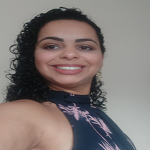
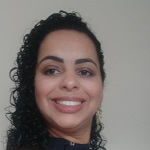
Melhorando a foto

diff --git a/index.html b/index.html
@@ -45,10 +45,10 @@
     </div>
     
     <div>
-        <p>Analista de planejamento migrando para a área de tecnologia.<br>
+        <p>Analista de planejamento migrando para a área de Tecnologia.<br>
          Validações e testes de alterações sistêmicas. <br> Cursando Java Script, HTML e CSS no PretaLab . <br>
-         Certificação Scrum Fundamentals Certified - Scrum study. <br>
-         MBA em Gestão estratégicas de negócios.</p>
+         Certificação Scrum Fundamentals Certified - Scrum Study. <br>
+         MBA em Gestão Estratégicas de Negócios.</p>
         </div>
     </article>
 
@@ -107,9 +107,9 @@
         <div class="container">
             <ul id="contato" class= "lista-footer">
                 <!-- Explicar sobre icones -->
-                <li><i class="fas fa-envelope-square estilo-icon"></i><a href="mailto:denisecruz2000@hotmail.com" target ="_blank" class="links">denisecruz2000@hotmail.com</a></li>
-                <li><i class="fab fa-linkedin estilo-icon"></i><a href="https://www.linkedin.com/in/denise-rodrigues-cruz-da-silva/" target ="_blank" class="links">denise-rodrigues-cruz-da-silva</a></li>
-                <li><i class="fab fa-github-square estilo-icon"></i><a href="https://github.com/Dercruz" target ="_blank" class="links">Derocruz</a></li>
+                <li><i class="fas fa-envelope-square estilo-icon"></i><a href="mailto:denisecruz2000@hotmail.com" target="_blank"class="links">denisecruz2000@hotmail.com</a></li>
+                    <li><i class="fab fa-linkedin estilo-icon"></i><a href="https://www.linkedin.com/in/denise-rodrigues-cruz-da-silva-527002bb/" target="_blank" class="links">denise-rodrigues-cruz-da-silva</a></li>
+                    <li><i class="fab fa-github-square estilo-icon"></i><a href="https://github.com/Derocruz" target="_blank" class="links">Derocruz</a></li>
             </ul>
         </div>
               
